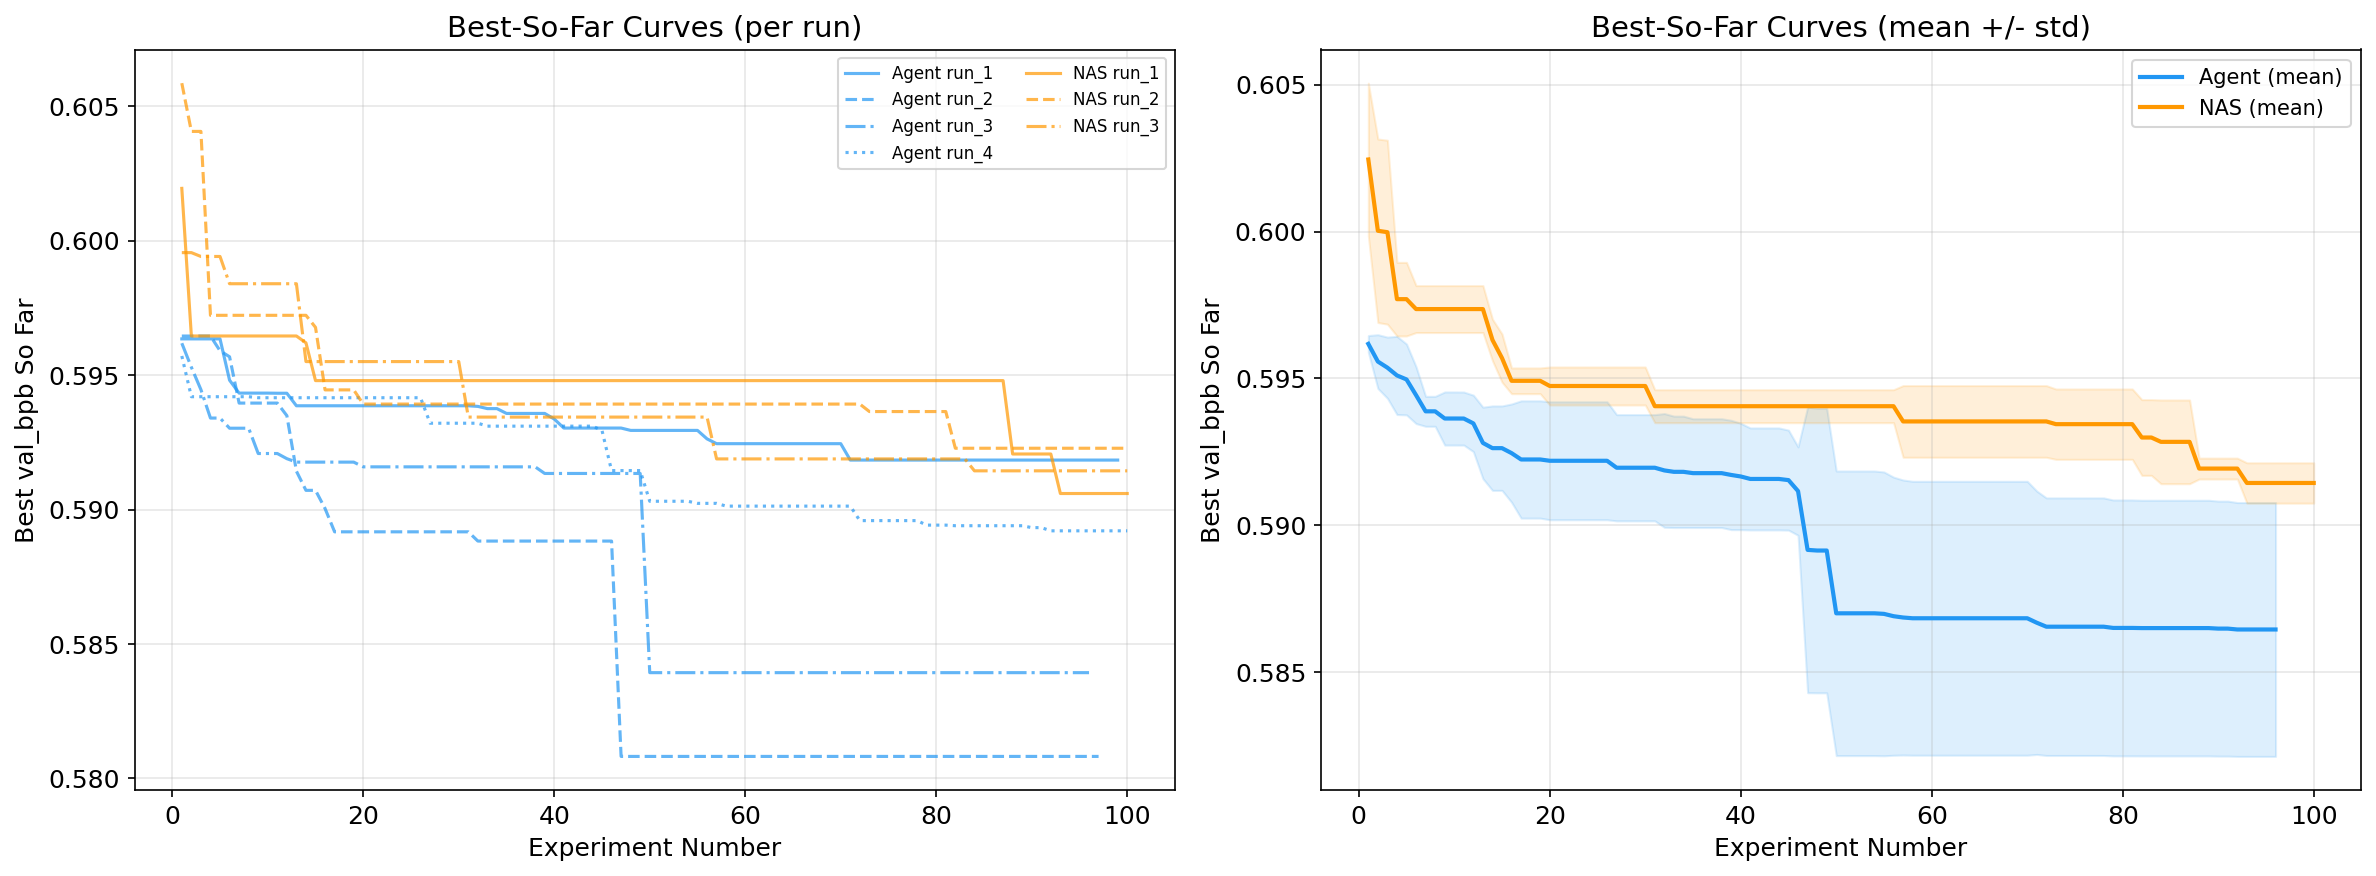
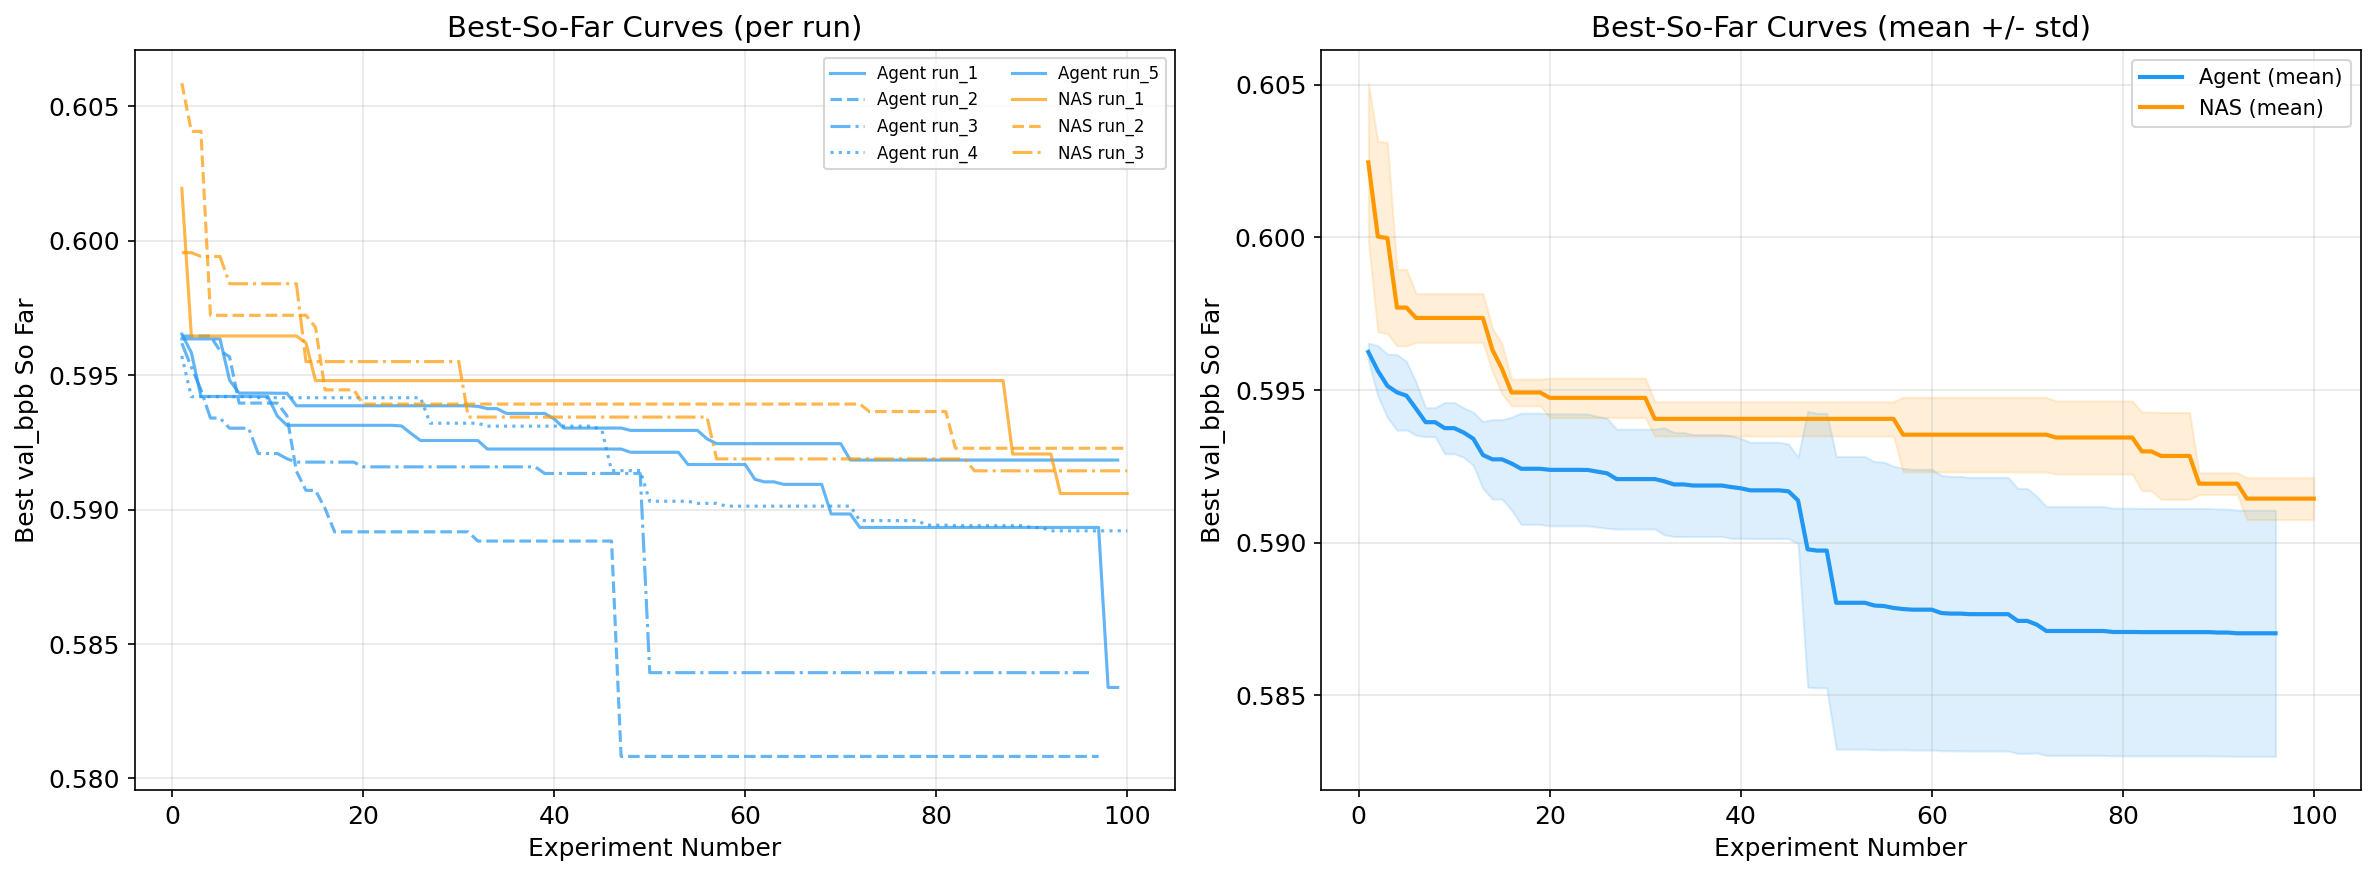
fix: regenerate analysis plots with SMILES run_5 data; agent protein run_1 progress (7/100)

diff --git a/scripts/analyze_training_dynamics.py b/scripts/analyze_training_dynamics.py
@@ -24,7 +24,7 @@ os.makedirs(OUT, exist_ok=True)
 
 AGENT_RUNS = {
     f"run_{i}": os.path.join(BASE, "smiles", f"run_{i}", "logs")
-    for i in range(1, 5)
+    for i in range(1, 6)
 }
 NAS_RUNS = {
     f"run_{i}": os.path.join(BASE, "baselines", "random_nas", "smiles", f"run_{i}", "logs")
